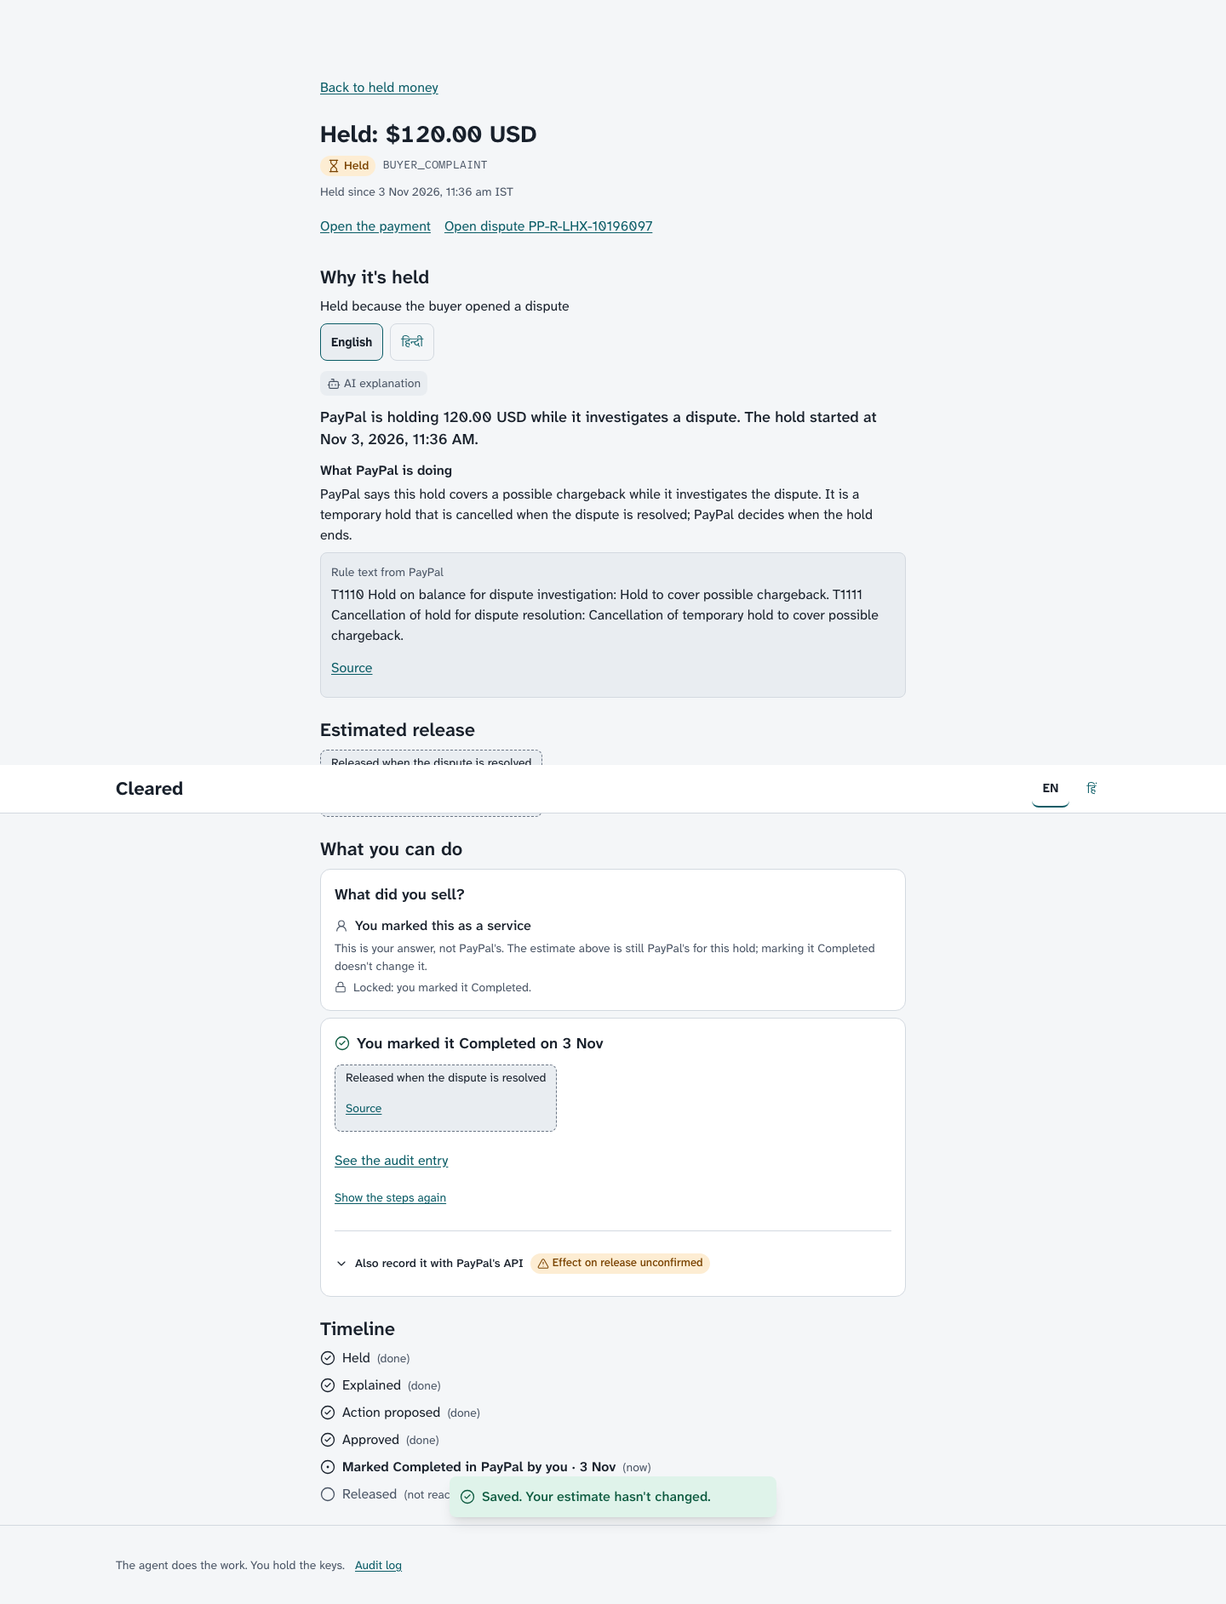
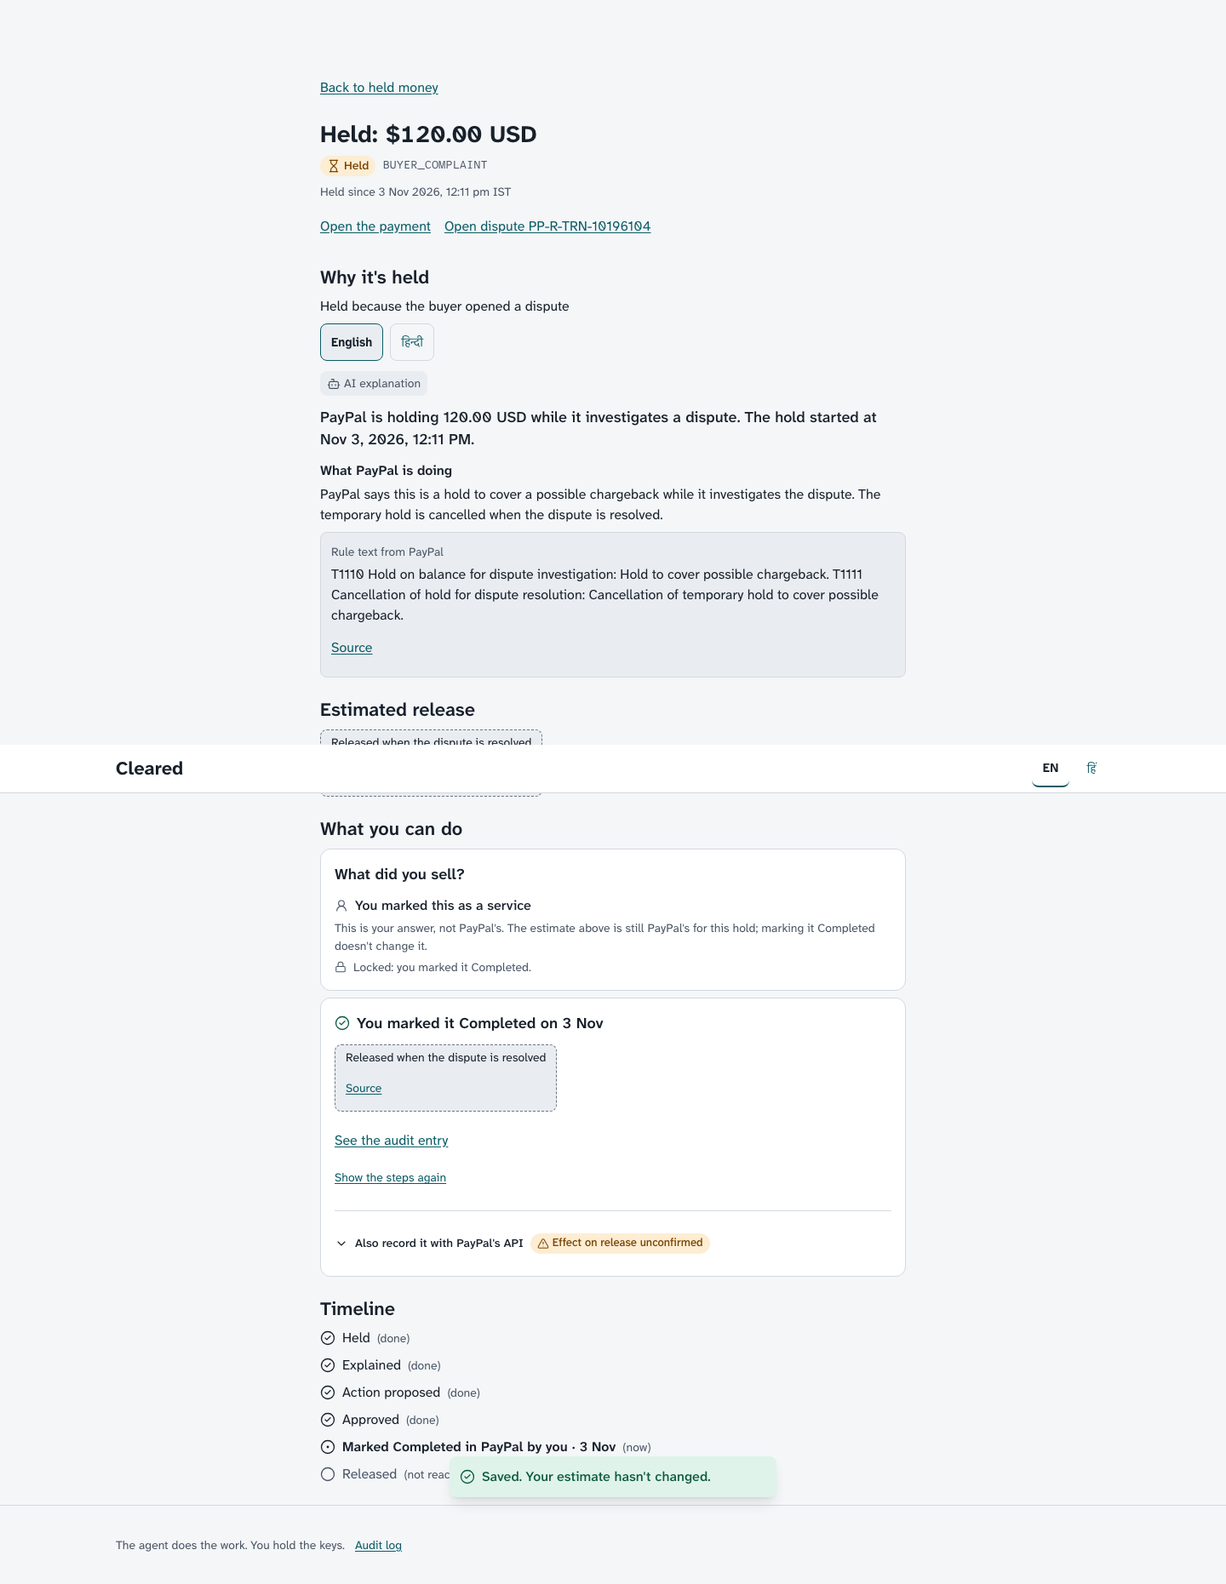
docs(evidence): M3-11 run 3 of record: storyboard spec passes on production (M3-11)

diff --git a/docs/evidence/m3-storyboard-dry-run.md b/docs/evidence/m3-storyboard-dry-run.md
@@ -1,143 +1,134 @@
 # M3-11 · Storyboard dry run on production: evidence
 
-Two live runs of `apps/web/e2e/storyboard.spec.ts` against **production**
+Three live runs of `apps/web/e2e/storyboard.spec.ts` against **production**
 (`https://cleared-web-gd1b.onrender.com`, Render, Oregon), in deployed mode: no local server, no stub,
 no credential in the test.
-- **Run 1** was on 2026-11-03 at 04:11–04:28 UTC, with web on `1463670` and worker on `f93f88d`.
-- **Run 2** was at 06:03–06:18 UTC, with web and worker both on **`c5afc1c`**. That build includes #129 (the
-  web build fix) and #130 (the seller's goods/service declaration, option A).
 
-Run 2 is the run of record below. Run 1 is summarised at the end.
+| Run | When (2026-11-03, UTC) | Production build | Verdict |
+|---|---|---|---|
+| 1 | 04:11–04:28 | web `1463670`, worker `f93f88d` | 1 failed: blockers on scenes 2, 4b and 5 (since cleared) |
+| 2 | 06:03–06:18 | web + worker `c5afc1c` (#129 build fix, #130 declaration) | 1 failed on one soft check (wrong test expectation, fixed in 5ece0b3) |
+| **3 (of record)** | **06:37–06:52** | web + worker `c5afc1c`, spec at `f438408` | **1 passed (14.6 min)** |
 
 Every PayPal call ran on the **PayPal sandbox**. All personal data is synthetic:
 - the seller is an anonymous "Try as demo seller" workspace;
-- the client is "Northwind Tea Co." and the designer is "Meera Studio", both from the scenario's
-  `fixtures/scenario/`;
+- the client is "Northwind Tea Co." and the designer is "Meera Studio", both from `fixtures/scenario/`;
 - the review-hold payment was approved by the sandbox buyer account (P-52).
 
 The ids are sandbox ids. No secret values appear here.
 
-## Staging (run 2)
+## Staging (run 3)
+
+The pool commands ran over `render ssh` on cleared-worker (production's own env), per
+docs/runbooks/review-hold-pool.md.
 
 | Step | When (UTC) | Result |
 |---|---|---|
-| Video-pool order created on production (`render ssh` on cleared-worker: `node apps/worker/src/cli/pool.ts create --count 1 --purpose video`). A read-only check beforehand found 0 pool rows | 05:52:11 | order `6AE7350594037204V`, 64.00 USD; PayPal create-order 200, `debug_id f282016ddfb16` |
-| The owner approved the order as the sandbox buyer (P-52) | before 05:55 | |
-| `pool.ts capture` | 05:55:13 | capture POST **201**, `debug_id f230955f1c12e`; capture `63R756703X9265145` **`PENDING / PENDING_REVIEW`** (re-read by GET 200, `debug_id f317634bace8c`); row `held` |
-| `pool.ts status` | 05:55 | `video held 6AE7350594037204V 63R756703X9265145 PENDING/PENDING_REVIEW`, expected release `~2026-11-04T05:55Z` (estimated, rule `payment_review`) |
-| Web and worker live on `c5afc1c`; `/readyz` `{"ok":true,…}` | 06:03 | |
-| Recording workspace created by the spec ("Try as demo seller") | 06:03:35 | `7d178710-e78a-4de8-b437-486e2b346e58` |
-| `pool.ts assign --workspace 7d178710…` | ~06:04 | "assigned capture 63R756703X9265145 (order 6AE7350594037204V)" |
-| Chargeback (M2-10 scenario, on the $120 card capture) | 06:04 | staged live in the run, not 20 min ahead |
+| `pool.ts status` before creating (Run 3 ran from a different network because of the 3 demo workspaces/IP/day limit, so `cleared-prod-select` was refused by the DB allowlist) | ~06:30 | 1 row, run 2's, already assigned; no unassigned rows |
+| `pool.ts create --count 1 --purpose video` | ~06:31 | order `1LW295297L0790456`, 64.00 USD; create-order 200, `debug_id ca549559bedfc` |
+| The owner approved the order as the sandbox buyer (P-52) | before 06:34 | |
+| `pool.ts capture` | ~06:34 | capture POST **201**, `debug_id ca5495a297fdd`; capture `5MH87432EV4324634` **`PENDING / PENDING_REVIEW`**; re-read by GET 200 (`debug_id ca5495a31085a`); row `held` |
+| `pool.ts status` | ~06:35 | `video held 1LW295297L0790456 5MH87432EV4324634 PENDING/PENDING_REVIEW`, expected release `~2026-11-04T06:34Z` (estimated, rule `payment_review`) |
+| `/readyz` | 06:37 | `{"ok":true,"checks":{"db":true,"queue":true,"worker":true,"reconcile":true}}` |
+| Recording workspace created by the spec | 06:37:58 | `987d00e3-6c71-416c-ac1c-97571db0493f` |
+| `pool.ts assign --workspace 987d00e3…` | ~06:38 | "assigned capture 5MH87432EV4324634 (order 1LW295297L0790456)" |
+| Chargeback (M2-10 scenario, on the $120 card capture) | ~06:38 | staged live in the run, not 20 min ahead |
 
-| Run 2 ids | |
+| Run 3 ids | |
 |---|---|
-| scenario run | `1b3d150a-cece-4eb6-bb01-c93717178bd2` |
-| $120 card capture | `0B048240UX508924R` (payment `02a856ac-56ef-4317-9bba-ce75244ddc1c`) |
-| dispute | `PP-R-LHX-10196097` (stage `CHARGEBACK`) |
-| $64 review-hold capture | `63R756703X9265145` (order `6AE7350594037204V`) |
-| tracking (`add_tracking`, IND_DELHIVERY `CLRM311001`, synthetic) | PayPal **201**, `debug_id ca5492f996d63` |
-| evidence filing (`provide_evidence`) | PayPal **200**, `debug_id f2295179440e7` |
+| scenario run | `1fb82b06-f362-4b3a-877a-d4939f414f0b` |
+| $120 card order / capture | `57T10330WD5617918` / `1V857327YR188313C` (payment `a631e884-7c3b-4147-8042-bb67a815a7c5`) |
+| dispute | `PP-R-TRN-10196104` (stage `CHARGEBACK`, reason `MERCHANDISE_OR_SERVICE_NOT_AS_DESCRIBED`) |
+| $64 review-hold capture | `5MH87432EV4324634` (order `1LW295297L0790456`) |
+| tracking (`add_tracking`, IND_DELHIVERY `CLRM311001`, synthetic) | filed after the seller's approval, PayPal `debug_id ca54961783ef2` |
+| evidence filing (`provide_evidence`, fingerprint `c326704e`) | PayPal **200**, `debug_id f8280104a60c9` |
 
-## Scenes (run 2)
+## Scenes (run 3)
 
 The storyboard column is PROJECT.md §2. "Wall time" is what the scene took in this run. "Source" is what
-moved the state Cleared shows: a verified PayPal webhook, or Cleared's own poll / re-fetch.
+moved the state Cleared shows: a verified PayPal webhook, or Cleared's own poll / re-fetch. Each source is
+the payment's `source` as the app's `/api/payments` returned it during the run.
 
 | Scene | Storyboard | Result | Wall time | Sandbox ids | Source of each state change |
 |---|---|---|---|---|---|
-| 1 Proof pack: payment arrives, chat + files, AI scope check with quotes, client acknowledgement, scope snapshot | 0:20–0:45 (25 s) | pass | 82 s | capture `0B048240UX508924R` | payment: **poll** (scenario capture sync); pack, check, ack, snapshot: Cleared's own jobs |
-| 2a Real `PENDING / PENDING_REVIEW` hold, explained in Hindi with the estimate and its source | 0:45–1:05 (20 s) | pass | 9 s | capture `63R756703X9265145` | hold: **webhook** (payment `source = webhook` from the pool capture). On production the payment row reads `PENDING / PENDING_REVIEW` |
-| 2b Goods: the seller declares "goods" (labelled as her answer), route advice, File tracking → approve → filed | (same window) | pass | 12 s | tracking `debug_id ca5492f996d63` | the declaration is Cleared's own field; tracking is a seller-approved PayPal write (201). PayPal's estimate stays `payment_review` ("Within 24 hours; up to 3 business days") |
-| 3a Dispute lands → `PENDING/BUYER_COMPLAINT`, bell, draft, approval, evidence filed | 1:05–1:50 (45 s) | pass | 3 min 19 s | dispute `PP-R-LHX-10196097`, `debug_id f2295179440e7` | hold: **webhook** `CUSTOMER.DISPUTE.CREATED` → capture re-fetch (payment `source = webhook`) |
-| 3b Labelled "Simulate PayPal's decision (sandbox only)" → `RESOLVED_WITH_PAYOUT`, capture `COMPLETED`, both in the UI | (same) | pass | 8 min 52 s | dispute `PP-R-LHX-10196097`, capture `0B048240UX508924R` | release to `COMPLETED`: **poll** (scenario poll); final payment `source = webhook` |
+| 1 Proof pack: payment arrives, chat + files, AI scope check with quotes, client acknowledgement, scope snapshot | 0:20–0:45 (25 s) | pass | 58 s | capture `1V857327YR188313C` | payment: **poll** (scenario capture sync); pack, check, ack, snapshot: Cleared's own jobs |
+| 2a Real `PENDING / PENDING_REVIEW` hold, explained in Hindi with the estimate and its source | 0:45–1:05 (20 s) | pass | 11 s | capture `5MH87432EV4324634` | hold: **webhook** (the pool capture's payment row) |
+| 2b Goods: the seller declares "goods" (labelled as her answer, not PayPal's), route advice, File tracking → approve → filed | (same window) | pass | 12 s | tracking `debug_id ca54961783ef2` | the declaration is Cleared's own field; tracking is a seller-approved PayPal write. PayPal's estimate stays `payment_review` |
+| 3a Dispute lands → `PENDING/BUYER_COMPLAINT`, bell, draft, approval, evidence filed | 1:05–1:50 (45 s) | pass | 3 min 8 s | dispute `PP-R-TRN-10196104`, `debug_id f8280104a60c9` | hold: **webhook** (`CUSTOMER.DISPUTE.CREATED` → capture re-fetch) |
+| 3a calendar deadline row while the case is open | (same) | pass | n/a | n/a | PayPal sent no `seller_response_due_date` ("PayPal gives no reply date"), so the calendar correctly shows no deadline row (0) |
+| 3b Labelled "Simulate PayPal's decision (sandbox only)" → `RESOLVED_WITH_PAYOUT`, capture `COMPLETED`, both in the UI | (same) | pass | 9 min 52 s | dispute `PP-R-TRN-10196104`, capture `1V857327YR188313C` | release to `COMPLETED`: **poll** (scenario poll) |
 | 3 email alert | (same) | fail | n/a | n/a | in-app bell only. Demo workspaces get no email by design (M3-08); showing the email needs an allowlisted owner workspace |
-| 4a Audit log: the agent's proposal, the seller's approval, the sent row with its `debug_id` | 1:50–2:15 (25 s) | pass | 2 s | `debug_id f2295179440e7` | Cleared's audit rows |
-| 4b Cash calendar (Bryntum month view, rendered in Chromium) + table | (same) | pass | 2 s | n/a | `released` $120 (PayPal's date) and $64 `estimated` (Source) rows. Third-party hosts on the production calendar page: **none** (no GTM, no bryntum.com) |
-| 5 Guided Completed: the seller declares the $120 logo payment a service and confirms Completed | n/a | pass | 6 s | hold on capture `0B048240UX508924R` (`BUYER_COMPLAINT`) | Cleared's own record. "Saved. Your estimate hasn't changed."; PayPal's state and estimate unchanged |
+| 4a Audit log: the agent's proposal, the seller's approval, the sent row with its `debug_id` | 1:50–2:15 (25 s) | pass | 3 s | `debug_id f8280104a60c9` | Cleared's audit rows |
+| 4b Cash calendar (Bryntum month view, rendered in Chromium) + table | (same) | pass | 2 s | n/a | third-party hosts on the production calendar page: **none** (no GTM, no bryntum.com) |
+| 5 Guided Completed: the seller declares the $120 logo payment a service and confirms Completed | n/a | pass | 7 s | hold on capture `1V857327YR188313C` (`BUYER_COMPLAINT`) | Cleared's own record. "Saved. Your estimate hasn't changed."; PayPal's state and estimate unchanged |
 
-**The one assertion that failed in run 2.** It was a soft check in scene 3a: the spec expected one
-`dispute_deadline` row in the calendar while the case was open, and found **0**. Production SQL shows that
-`seller_response_due_date` is null on both sandbox chargebacks (`PP-R-LHX-10196097`, `PP-R-XID-10196080`),
-and the dispute page says "PayPal gives no reply date". So the calendar was right not to invent a deadline;
-the spec's expectation was wrong.
-- The spec now expects a deadline row exactly when PayPal sent a due date (`detail.dispute.dueDate`), so 0 here.
-- That fix came after run 2. It hasn't run live yet: the demo-workspace quota for the day (3 per IP) is used up.
-- Everything else in run 2 passed, so the Playwright verdict was **1 failed** on that check alone.
-
-### Scene timings (run 2, UTC)
+### Timings (run 3, UTC)
 
 | Mark | At | |
 |---|---|---|
-| start / workspace | 06:03:34 | |
-| scenario started → payment visible | 06:03:46 → 06:04:00 | 14 s |
-| AI scope check done (6 lines: `met` ×3, `unverifiable` ×3; 11 verbatim citations) | 06:04:44 | 44 s after the payment |
-| client confirmed from a second browser | 06:04:51 | |
-| scope snapshot downloaded | 06:04:57 | |
-| review hold in the inbox | 06:04:57 | |
-| HI explanation (`lang="hi"`, rule `payment_review`, https source link) | 06:05:06 | |
-| tracking approved → filed (201) | 06:05:11 → 06:05:18 | 7 s |
-| capture `PENDING / BUYER_COMPLAINT`, dispute mirrored | 06:07:11 | |
-| agent draft proposed | 06:08:17 | 66 s after |
-| seller approved → evidence filed (200) | 06:08:22 → 06:08:37 | 15 s |
-| service declared + Completed confirmed | 06:08:43 | |
-| decision control enabled and clicked | 06:12:07 | 3 min 30 s after filing |
-| dispute `RESOLVED` / `RESOLVED_WITH_PAYOUT` | 06:17:30 | 5 min 22 s after the decision |
-| "Hold released: payment is Completed" | 06:17:31 | |
-| audit log, calendar | 06:17:36, 06:17:39 | |
+| start / workspace | 06:37:58 | |
+| scenario started → payment visible | 06:38:07 → 06:38:13 | 6 s |
+| AI scope check done (6 lines: `met` ×3, `unverifiable` ×3; 9 verbatim citations) | 06:38:42 | 29 s after the payment |
+| client confirmed from a second browser; snapshot downloaded | 06:38:55; 06:38:56 | |
+| review hold in the inbox → HI explanation (`lang="hi"`, rule `payment_review`, https source) | 06:38:57 → 06:39:08 | |
+| tracking approved → filed | 06:39:13 → 06:39:20 | 7 s |
+| capture `PENDING / BUYER_COMPLAINT`, dispute mirrored | 06:41:10 | |
+| agent draft proposed (`PROOF_OF_FULFILLMENT`, notes 723/2000, one compiled PDF 222 KB) | 06:42:15 | 65 s after |
+| seller approved → evidence filed (200); six checks passed | 06:42:19 → 06:42:28 | 9 s |
+| service declared + Completed confirmed | 06:42:35 | |
+| decision control enabled and clicked | 06:46:22 | 3 min 54 s after filing |
+| dispute `RESOLVED` / `RESOLVED_WITH_PAYOUT` / `REPRESENTED_BY_PAYPAL` | 06:52:22 | 6 min after the decision |
+| "Hold released: payment is Completed" | 06:52:23 | |
+| audit log, calendar | 06:52:28, 06:52:31 | |
 
 The UI reads "Resolved; you keep the money (PayPal covered the case)". No page contains "won".
 
-## AC checks on production (read-only SQL, `cleared-prod-select`)
+## AC checks
 
-```
-executions (workspace 7d178710…):
-  2026-11-03 06:05:12Z  add_tracking      201  ca5492f996d63
-  2026-11-03 06:08:25Z  provide_evidence  200  f2295179440e7
-payments:  63R756703X9265145  PENDING    PENDING_REVIEW  (poll at read time)
-           0B048240UX508924R  COMPLETED                  webhook
-holds:     review   PENDING_REVIEW   filed     seller_declared_kind goods
-           dispute  BUYER_COMPLAINT  released  seller_declared_kind service
-disputes:  PP-R-LHX-10196097  RESOLVED  CHARGEBACK  seller_response_due_date null
-```
+| AC | Evidence (run 3) |
+|---|---|
+| 2: the hold is real, explained in HI, with a source | the capture GET on production (pool CLI, cleared-worker) returned 200, `debug_id ca5495a31085a`, `PENDING / PENDING_REVIEW` for `5MH87432EV4324634`; screenshot `s2-hi-hold-detail` |
+| 3: `RESOLVED_WITH_PAYOUT`, capture `COMPLETED`, both in the UI | the spec asserted `GET /api/scenarios/:id` `dispute.status = RESOLVED`, `outcome = RESOLVED_WITH_PAYOUT / REPRESENTED_BY_PAYPAL`, `capture.status = COMPLETED`; the UI outcome and "Hold released" text; screenshot `s3-dispute-resolved` |
+| 4: 2xx `debug_id` in `executions` for the filing and the tracking | filing: the app's `GET /api/disputes/:id` (built from `executions`) returned `paypalStatus` 200 and `debug_id f8280104a60c9`, which the spec asserted; the audit row reads "Completed (200)". Tracking: "Tracking filed … PayPal debug_id ca54961783ef2" (the action reaches filed only on a 2xx) |
 
-The pool CLI's capture GET (`/v2/payments/captures/:id`, 200, `debug_id f317634bace8c`) returned
-`PENDING / PENDING_REVIEW` for `63R756703X9265145` at 05:55:13Z. That is the AC 2 check; it ran on
-production's own worker.
+**Pending re-check from the home network:** a direct SQL read of `executions`, `payments`, `holds`,
+`disputes`, `webhook_events` and `agent_runs` for workspace `987d00e3…`. Run 3 ran from a hotspot IP
+outside the DB allowlist, and a read-only `psql` through the worker over `render ssh` was refused by the
+build's permission system. The same SQL checks on run 2 (same code, same path) returned `add_tracking` 201
+and `provide_evidence` 200.
 
 ## Spend
 
 OpenAI cost per run, from `agent_runs` (the API's token counts, priced by the app):
 
-| Task | Run 1 | Run 2 |
-|---|---|---|
-| `check_scope` (×2) | $0.0172 | $0.0162 |
-| `draft_dispute` (×2) | $0.0082 | $0.0081 |
-| `extract` (×5) | $0.0011 | $0.0011 |
-| `explain_hold` | $0.0001 (×1) | $0.0003 (×2) |
-| **Total** | **$0.0267** | **$0.0257** |
+| Run | Cost |
+|---|---|
+| 1 | $0.0267 (`check_scope` ×2 $0.0172, `draft_dispute` ×2 $0.0082, `extract` ×5 $0.0011, `explain_hold` ×1 $0.0001) |
+| 2 | $0.0257 (`check_scope` ×2 $0.0162, `draft_dispute` ×2 $0.0081, `extract` ×5 $0.0011, `explain_hold` ×2 $0.0003) |
+| 3 | **pending** the home-network SQL read (same pipeline and inputs, so expected in the same ~$0.03 range; not measured) |
 
-Both runs together: **$0.0524** of the $0.50 budget. PayPal sandbox: $0.
+Runs 1 + 2: **$0.0524** measured. PayPal sandbox: $0.
 
 ## Deltas for M5-02 (timings against the < 3:00 cut)
 
-- **Scene 1 (82 s against 25 s):** the AI check takes ~45 s. Cut from the paste/upload to the checked verdicts.
-- **Scene 2 (21 s against 20 s):** fits as-is, the review hold and HI explanation plus the goods declaration
-  and tracking. The pool hold must be under 20 h old to assign; this one was captured at 05:55Z, releases
-  ~24 h later (estimated), and must be assigned by ~2026-11-04 01:55Z.
-- **Scene 3 (12 min 11 s against 45 s):** stage the chargeback ~20 min ahead, as §2 says. The dispute
-  webhook took ~3 min, the draft about 1 min, the filing 15 s, the decision control 3.5 min, and the
-  resolution 5.4 min.
-- **Scene 4:** fits (4 s). The Bryntum trial watermark shows on the calendar; P-38 is deferred to M5-SUBMIT.
+- **Scene 1 (58 s against 25 s):** the AI check takes ~30–45 s. Cut from the paste/upload to the checked verdicts.
+- **Scene 2 (23 s against 20 s):** the review hold, HI explanation, goods declaration and tracking; a light
+  trim fits. The pool row must be under 20 h old to assign. Run 3's row was captured at ~06:34Z and must be
+  assigned by ~2026-11-04 02:34Z. Its release is estimated ~24 h after capture.
+- **Scene 3 (13 min 0 s against 45 s):** stage the chargeback ~20 min ahead, as §2 says. The dispute
+  webhook took ~3 min, the draft about 1 min, the filing 9 s, the decision control ~4 min, and the
+  resolution ~6 min.
+- **Scene 4 (5 s):** fits. The Bryntum trial watermark shows; P-38 is deferred to M5-SUBMIT.
+- **Scene 5:** works only while the dispute hold is open. Show it between the filing and the decision.
 - **Copy:** the UI string is "Resolved; you keep the money (PayPal covered the case)". The storyboard's
   "she keeps the $120" is voice-over only.
 - **Approval:** the spec clicks Approve as the synthetic demo seller (as M2-10's judge spec does). In the
   recording, the owner clicks it on camera.
 - **Email alert:** record scene 3 in the owner's allowlisted workspace to show it.
-- **Scene 5:** declaring the hold a service and confirming Completed works only while the hold is open, i.e.
-  before the decision. In the video, show it between filing and the decision.
+- **No reply deadline in the demo:** sandbox chargebacks carry no `seller_response_due_date`, so there is no
+  deadline row or deadline alert to film.
 
-## Screenshots (run 2)
+## Screenshots (run 3)
 
 - `m3-storyboard-s1-pack-verdicts.png`: the pack, verdicts and quotes, and the seller's added items
 - `m3-storyboard-s1-client-ack.png`: the client's confirmation in the second browser
@@ -151,25 +142,25 @@ Both runs together: **$0.0524** of the $0.50 budget. PayPal sandbox: $0.
 - `m3-storyboard-s4-calendar.png`: the cash calendar month view and table
 - `m3-storyboard-s5-completed-done.png`: "You marked this as a service", Completed confirmed, the estimate unchanged
 
-## Run 1 (superseded)
+## Earlier runs (superseded)
 
-Run 1 was on 04:11–04:28 UTC with web on `1463670`. **Scenes 1, 3 and 4a passed:**
-- dispute `PP-R-XID-10196080` resolved as `RESOLVED_WITH_PAYOUT`;
-- capture `85R37727PK2111840` went to `COMPLETED`;
-- the filing returned 200 with `debug_id f696998b0718a`.
-
-**Scenes 2, 4b and 5 failed on blockers that have since cleared:**
-- no production pool;
-- no goods/service path (fixed by #130);
-- the web build of #127 failed on Render (BL-01 6595246110, fixed by #129).
+- **Run 1** (web `1463670`):
+  - Dispute `PP-R-XID-10196080` → `RESOLVED_WITH_PAYOUT`; capture `85R37727PK2111840` → `COMPLETED`.
+  - Filing 200, `debug_id f696998b0718a`.
+  - Scenes 2, 4b and 5 were blocked, by the missing pool, the missing goods/service path and the failed #127 web build.
+- **Run 2** (`c5afc1c`):
+  - Pool order `6AE7350594037204V` / capture `63R756703X9265145` `PENDING/PENDING_REVIEW`.
+  - Dispute `PP-R-LHX-10196097` → `RESOLVED_WITH_PAYOUT`.
+  - Production SQL: `add_tracking` 201 `ca5492f996d63`, `provide_evidence` 200 `f2295179440e7`; `seller_response_due_date` null.
+  - It failed on one soft check, which expected a calendar deadline row PayPal never sent. 5ece0b3 corrected the test.
 
 ## Defects and observations filed
 
 | What | Where |
 |---|---|
 | No product path made a goods or service hold | BL-01 6570499264, fixed by #130 (option A); proven live in scenes 2b and 5 |
-| No production review-hold pool | BL-01 6575469150: pool created over `render ssh` (staging above) |
+| No production review-hold pool | BL-01 6575469150: pool created on production over `render ssh` |
 | Render web build of #127 failed | BL-01 6595246110, fixed by #129 |
-| The draft leaves the seller's later items unselected, including the client's sign-off and the scope snapshot | BL-01 6595501766 (owner M3-06) |
+| The draft leaves the seller's later items unselected, including the client's sign-off and the scope snapshot (seen again in run 3: E4–E7 unticked) | BL-01 6595501766 (owner M3-06) |
 | "Thanks, Northwind Tea Co.. Your confirmation is recorded.": a double full stop when the client's name ends in "." | BL-01 6595502129 (owner M4-03) |
-| The review hold's EN explanation showed the labelled standard text ("no AI summary right now"); its HI one was AI | observation only: the fallback is labelled as designed (M3-02) |
+| A review hold's EN explanation showed the labelled standard text while its HI one was AI (run 2) | observation only: the fallback is labelled as designed (M3-02) |
